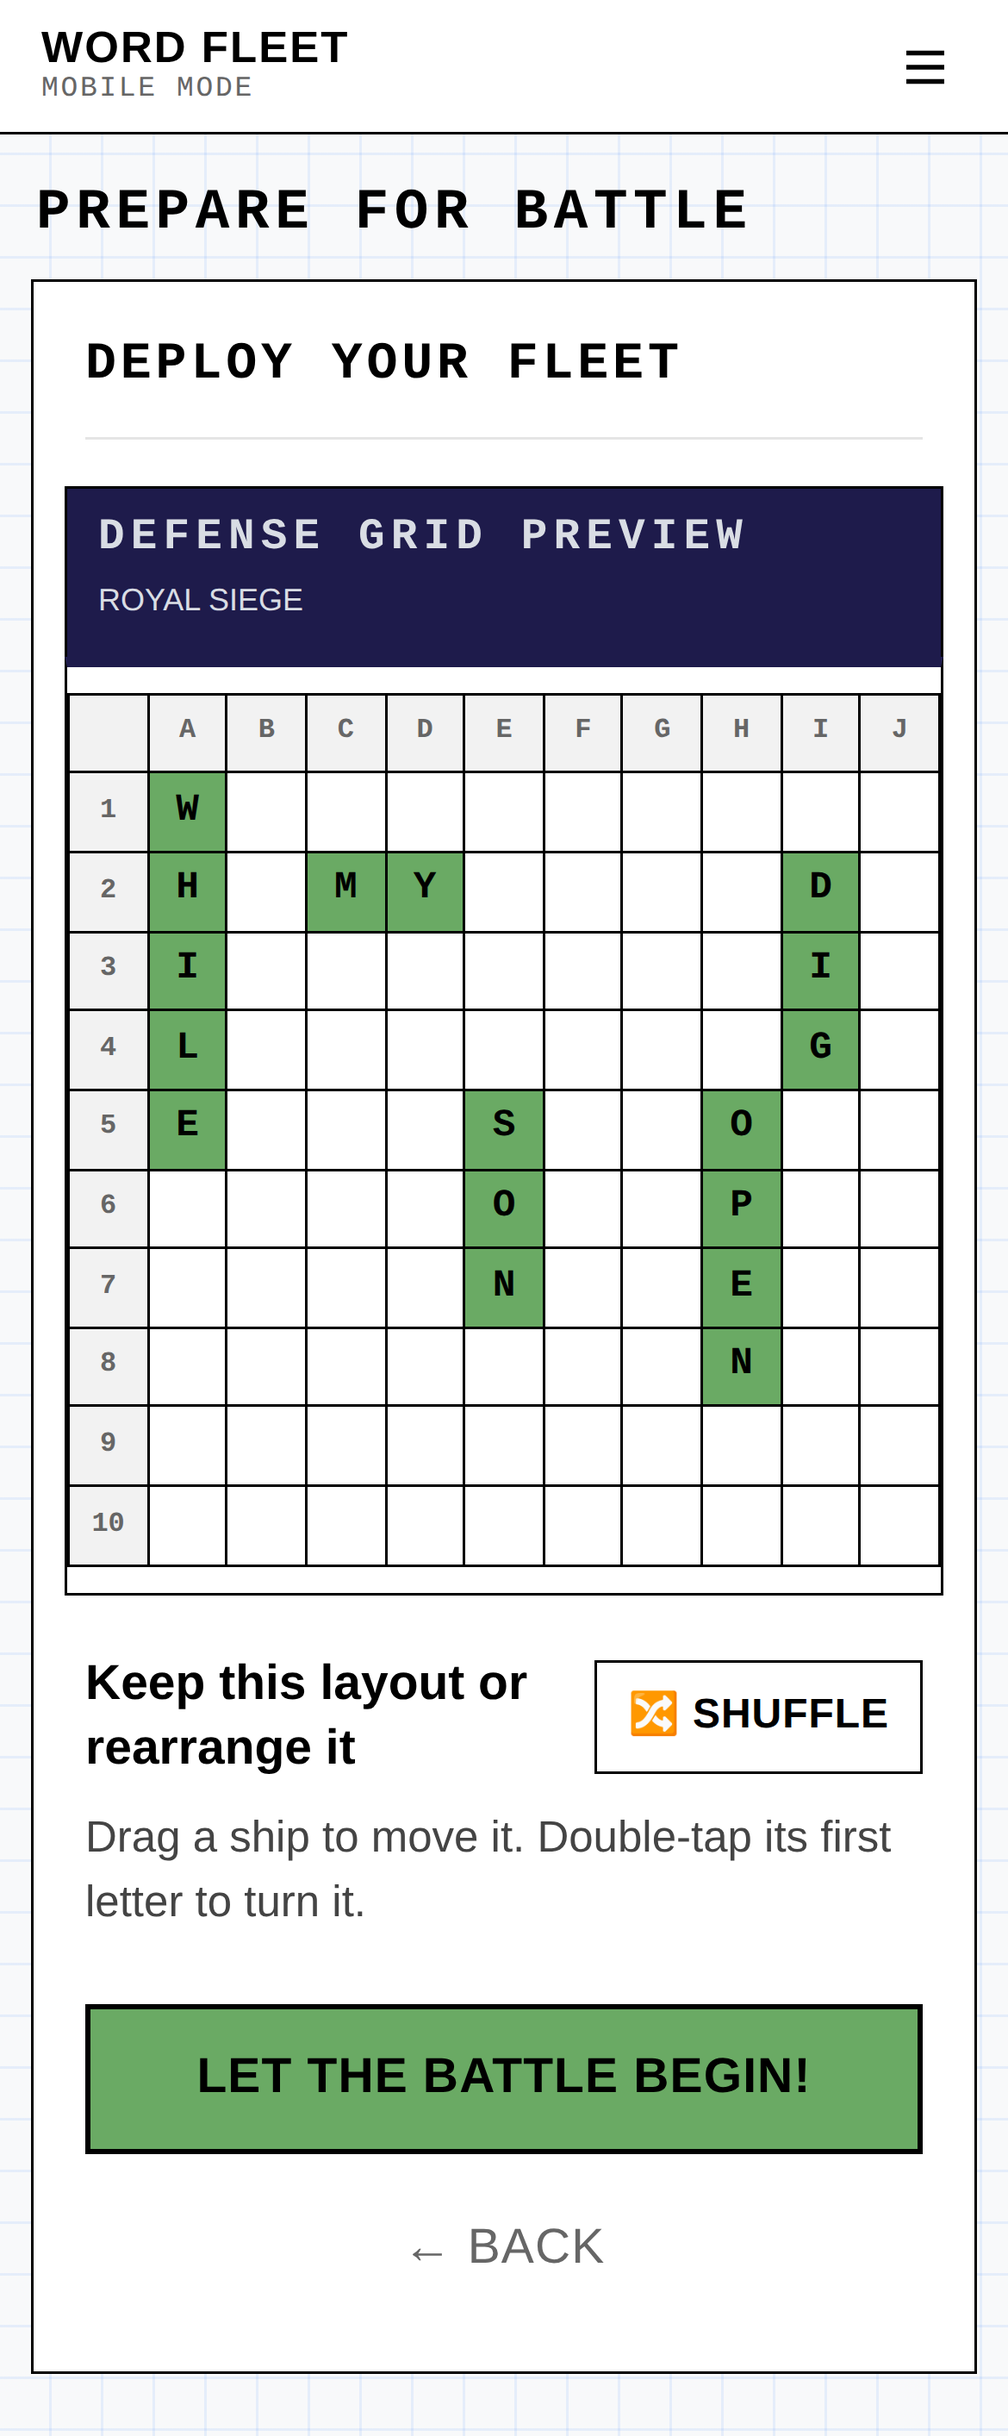
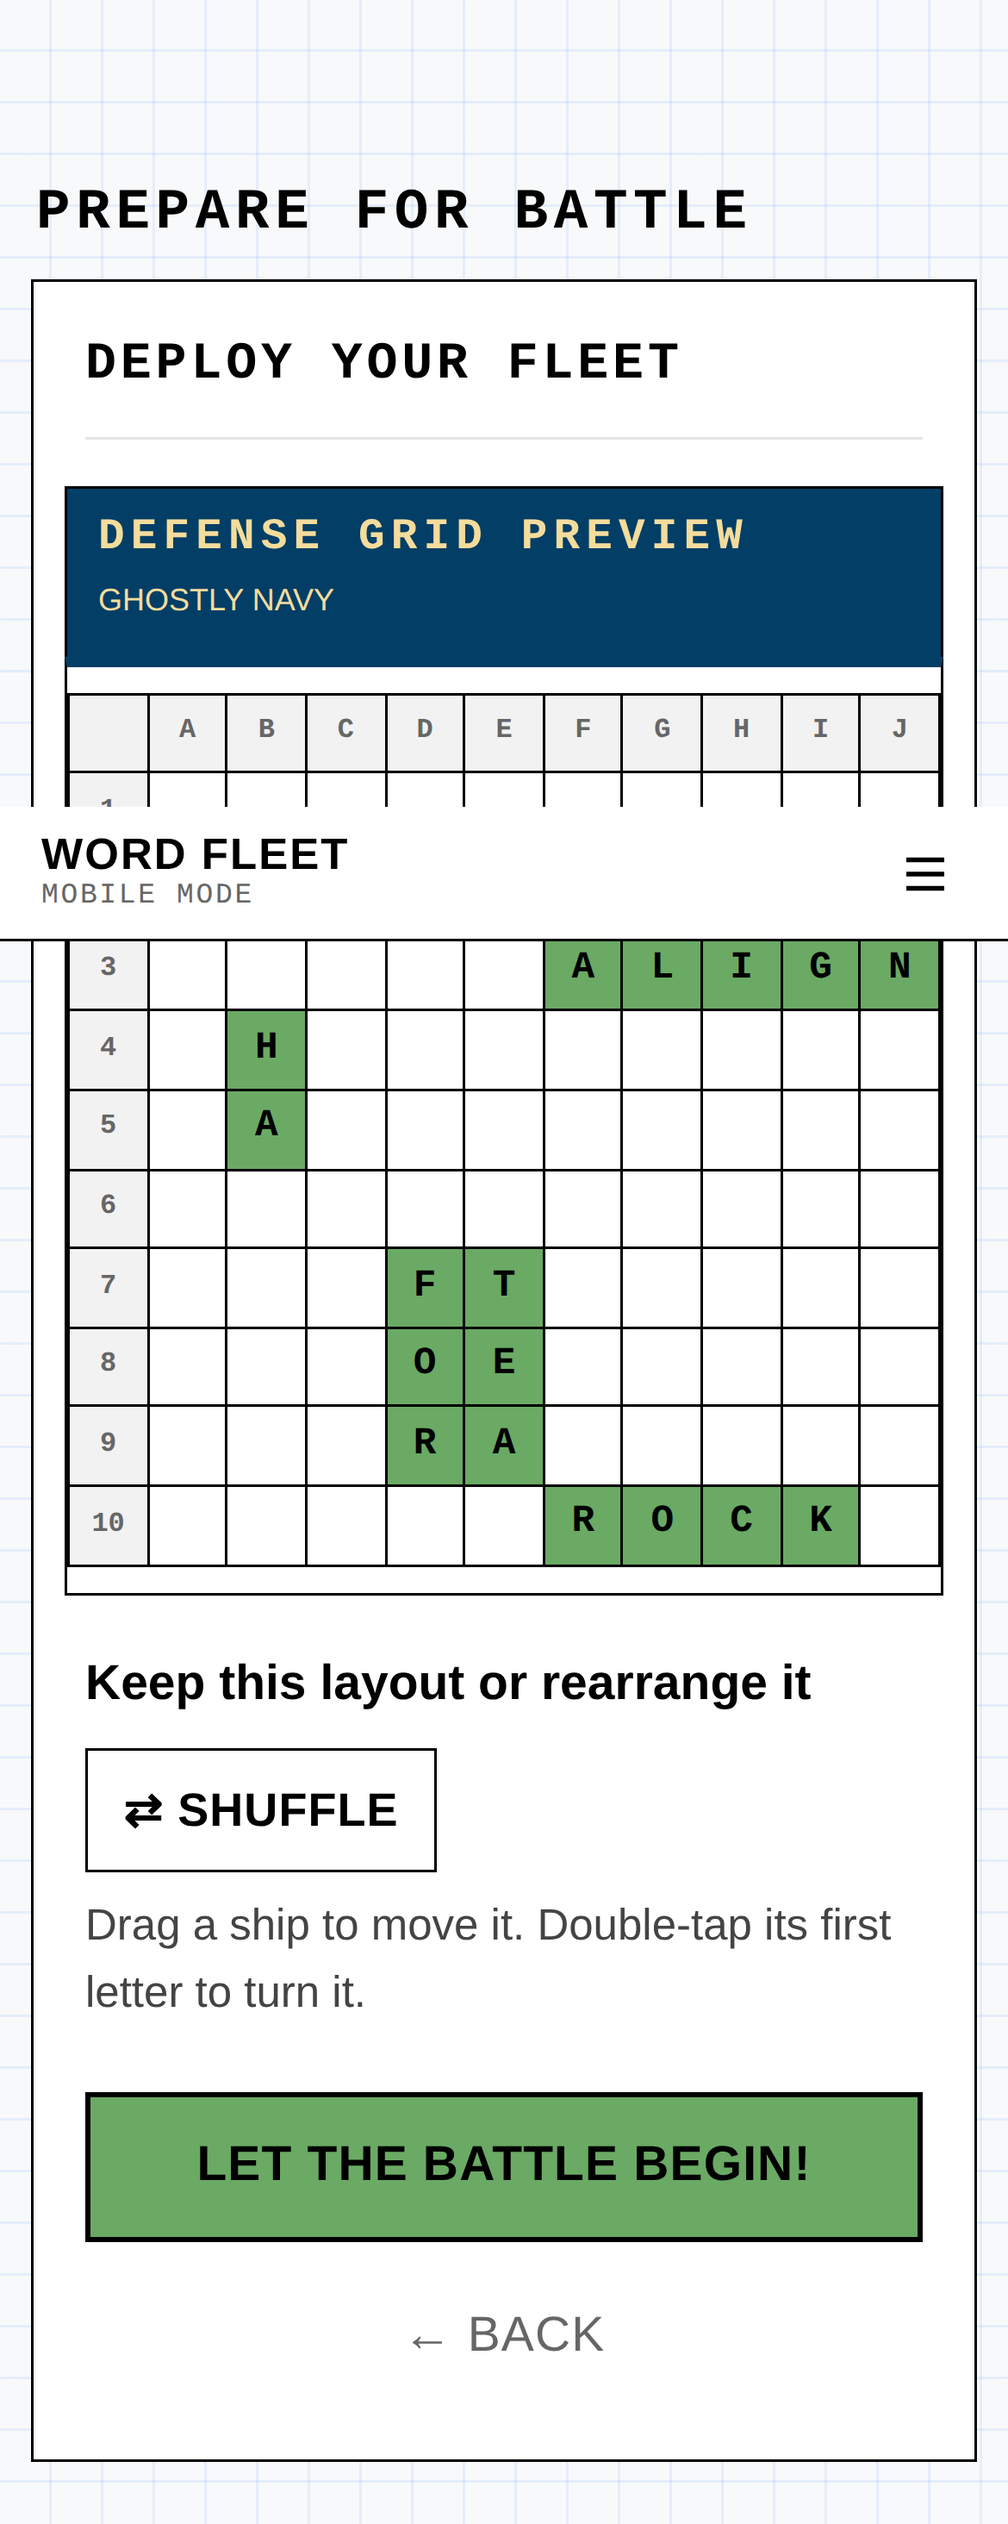
Prepare screens polish: consistent section headers, Set Up Your Fleet, Word Fleet Home link, short Next labels, fleet flag under the header, captain pictures, one-row language, readable ship sizes, matching header buttons
Claude-Session: https://claude.ai/code/session_013sUGAAEC45a1EJCrQWVj9Q

diff --git a/mobile/index.html b/mobile/index.html
@@ -18,7 +18,7 @@
   <link rel="preconnect" href="https://fonts.gstatic.com" crossorigin>
   <link href="https://fonts.googleapis.com/css2?family=Courier+Prime:wght@400;700&family=Inter:wght@400;500;600;700&display=swap" rel="stylesheet">
   <!-- Bump ?v= on every release (and CACHE in sw.js) so a new page never runs old code. -->
-  <link rel="stylesheet" href="app.css?v=72">
+  <link rel="stylesheet" href="app.css?v=76">
 </head>
 <body>
 
@@ -53,11 +53,15 @@
 
   <!-- ============ 001-MOBILE-PREPARE (screen name: "001-MOBILE-PREPARE") ============ -->
   <section class="screen setup-big" id="scrSetup" data-screen="001-MOBILE-PREPARE">
+    <p class="page-welcome">Welcome, Captain!</p>
     <h1 class="page-head">Prepare for Battle</h1>
     <div class="card">
-      <div class="card-title">Welcome Captain!</div>
-      <label class="label label--say" for="selLang">Choose your language</label>
-      <select class="select" id="selLang"></select>
+      <div class="card-title">Set Up Your Fleet</div>
+      <!-- 11: language on one compact row -->
+      <div class="lang-row">
+        <label class="label label--say" for="selLang">Language</label>
+        <select class="select" id="selLang"></select>
+      </div>
 
       <label class="label label--say" for="inFleet">Roll the die or type your own fleet name</label>
       <div class="input-row">
@@ -69,25 +73,26 @@
       <div class="swatches" id="colorSchemes" role="radiogroup" aria-labelledby="lblColors"></div>
       <p class="hint hint--label swatch-name" id="colorSchemeName"></p>
 
-      <button class="btn btn--wide btn--next btn--progress" style="--progress: 25%" id="btnToOpponent" type="button" aria-label="Next: Choose Your Opponent (step 1 of 4 done)">Next: Choose Your Opponent</button>
-      <a class="btn btn--ghost btn--wide" id="lnkHome" href="../">&larr; Back</a>
+      <button class="btn btn--wide btn--next btn--progress" style="--progress: 25%" id="btnToOpponent" type="button" aria-label="Next: Choose Your Opponent (step 1 of 4 done)">Next: Opponent</button>
+      <a class="btn btn--ghost btn--wide" id="lnkHome" href="../">&larr; Word Fleet Home</a>
     </div>
   </section>
 
   <!-- ============ 002-MOBILE-OPPONENT (screen name: "002-MOBILE-OPPONENT") ============ -->
   <section class="screen setup-big" id="scrOpponent" data-screen="002-MOBILE-OPPONENT">
     <h1 class="page-head">Prepare for Battle</h1>
+    <div class="fleet-tag" data-fleet-tag></div>
     <div class="card">
       <div class="card-title">Choose Your Opponent</div>
       <span class="label label--say">Pick the AI Captain you'll face</span>
       <div class="seg" id="segLevel">
-        <button type="button" data-v="ensign" class="is-on"><span class="cpt">Captain</span>Rubber Duck</button>
-        <button type="button" data-v="commander"><span class="cpt">Captain</span>Steady</button>
-        <button type="button" data-v="admiral"><span class="cpt">Captain</span>Lexicon</button>
+        <button type="button" data-v="ensign" class="is-on"><span class="cpt-pic" aria-hidden="true">&#x1F986;</span><span class="cpt">Captain</span>Rubber Duck</button>
+        <button type="button" data-v="commander"><span class="cpt-pic" aria-hidden="true">&#x2693;</span><span class="cpt">Captain</span>Steady</button>
+        <button type="button" data-v="admiral"><span class="cpt-pic" aria-hidden="true">&#x1F4D6;</span><span class="cpt">Captain</span>Lexicon</button>
       </div>
       <p class="hint" id="levelHint"></p>
 
-      <button class="btn btn--wide btn--next btn--progress" style="--progress: 50%" id="btnToWords" type="button" aria-label="Next: Build Your Word-Ships (step 2 of 4 done)">Next: Build Your Word-Ships</button>
+      <button class="btn btn--wide btn--next btn--progress" style="--progress: 50%" id="btnToWords" type="button" aria-label="Next: Build Your Word-Ships (step 2 of 4 done)">Next: Word-Ships</button>
       <button class="btn btn--ghost btn--wide" id="btnBackToSetup" type="button">&larr; Back</button>
     </div>
   </section>
@@ -95,21 +100,21 @@
   <!-- ============ 003-MOBILE-WORD-SHIPS (screen name: "003-MOBILE-WORD-SHIPS") ============ -->
   <section class="screen setup-big" id="scrWords" data-screen="003-MOBILE-WORD-SHIPS">
     <h1 class="page-head">Prepare for Battle</h1>
+    <div class="fleet-tag" data-fleet-tag></div>
     <div class="card">
       <div class="card-title">Build Your Word-Ships</div>
-      <span class="label label--say">Offensive words</span>
-      <label class="switch-row switch-row--big"><span>Possibly Offensive Words OK</span><input type="checkbox" class="switch" id="chkOffensive" role="switch"></label>
+      <label class="switch-row switch-row--big"><span>Allow possibly offensive words</span><input type="checkbox" class="switch" id="chkOffensive" role="switch"></label>
       <p class="hint hint--tight">Applies to both fleets.</p>
 
       <div class="section-head">
-        <span class="label label--say">Your five word-ships</span>
-        <button class="btn btn--sm" id="btnRefreshAll" type="button" aria-label="Refresh all five words">&#x21bb; Refresh All</button>
+        <span class="label label--say">Check your five word-ships</span>
+        <button class="btn btn--sm btn--head" id="btnRefreshAll" type="button" aria-label="Refresh all five words">&#x21bb; Refresh All</button>
       </div>
       <p class="hint hint--label">Tap any word to type your own.</p>
       <div id="wordList"></div>
       <p class="note" id="setupNote"></p>
 
-      <button class="btn btn--wide btn--next btn--progress" style="--progress: 75%" id="btnToDeploy" type="button" aria-label="Next: Deploy Your Fleet (step 3 of 4 done)">Next: Deploy Your Fleet</button>
+      <button class="btn btn--wide btn--next btn--progress" style="--progress: 75%" id="btnToDeploy" type="button" aria-label="Next: Deploy Your Fleet (step 3 of 4 done)">Next: Deploy</button>
       <button class="btn btn--ghost btn--wide" id="btnBackToOpponent" type="button">&larr; Back</button>
     </div>
   </section>
@@ -127,7 +132,7 @@
 
       <div class="section-head">
         <span class="label label--say">Keep this layout or rearrange it</span>
-        <button class="btn btn--sm" id="btnShuffle" type="button" aria-label="Shuffle your fleet into a new random layout">&#x1F500; Shuffle</button>
+        <button class="btn btn--sm btn--head" id="btnShuffle" type="button" aria-label="Shuffle your fleet into a new random layout">&#x21C4; Shuffle</button>
       </div>
       <p class="hint hint--label">Drag a ship to move it. Double-tap its first letter to turn it.</p>
 
@@ -222,7 +227,7 @@
 
 <div class="toast" id="toast" hidden></div>
 
-<script src="audio.js?v=72"></script>
-<script src="app.js?v=72"></script>
+<script src="audio.js?v=76"></script>
+<script src="app.js?v=76"></script>
 </body>
 </html>

diff --git a/mobile/app.js b/mobile/app.js
@@ -409,10 +409,11 @@
     if (document.activeElement !== $('inFleet')) $('inFleet').value = S.me.name;
     fitFleetName();
     $('selLang').innerHTML = languages.map(function (l) {
-      return '<option value="' + esc(l.code) + '"' + (lang && l.code === lang.code ? ' selected' : '') + '>' + esc(l.name) + '</option>';
+      return '<option value="' + esc(l.code) + '"' + (lang && l.code === lang.code ? ' selected' : '') + '>' + esc(l.short || l.name) + '</option>';   // short: the language's own name, fits small phones
     }).join('');
     $('selLang').disabled = languages.length < 2;
     renderSchemes();
+    renderFleetTags();
     $('chkOffensive').checked = offensiveOk();
     setSeg('segLevel', S.level);
     $('levelHint').innerHTML = esc(LEVELS[S.level].hint) + ' <strong>e.g. ' + esc(levelExamples(S.level)) + '</strong>';
@@ -452,6 +453,14 @@
     return COLOR_SCHEMES.filter(function (cs) { return cs.id === id; })[0] || COLOR_SCHEMES[0];
   }
 
+  // Under the header on 002-004: your flag and fleet name, so the chosen colors show from here on.
+  function renderFleetTags() {
+    var cs = schemeOf(S.colors), name = S.me.name || '';
+    Array.prototype.forEach.call(document.querySelectorAll('[data-fleet-tag]'), function (el) {
+      el.innerHTML = '<span class="fleet-tag-flag">' + flagSvg(cs, fleetInitials(name) || 'WF') + '</span><span class="fleet-tag-name">' + esc(name) + '</span>';
+    });
+  }
+
   function renderSchemes() {
     // A saved scheme that no longer exists gets a fresh random one.
     if (!COLOR_SCHEMES.some(function (cs) { return cs.id === S.colors; })) { S.colors = pick(COLOR_SCHEMES).id; save(); }
@@ -478,7 +487,7 @@
   function wordMessage(i) {
     var w = S.me.words[i] || '', p = wordProblem(w, SPECS[i].len);
     if (p) return SPECS[i].cls + ' ' + p + '.';
-    if (dictSet[w] && !allowed(w)) return w + ' may be offensive. Turn on "Possibly Offensive Words OK" to allow it.';
+    if (dictSet[w] && !allowed(w)) return w + ' may be offensive. Turn on "Allow possibly offensive words" to use it.';
     if (!inDictionary(w)) return w + " isn't in the " + lang.name + ' dictionary. Real words only, captain \u2014 no proper nouns or abbreviations.';
     return null;
   }
@@ -525,6 +534,7 @@
     // The fleet is always on the grid (a game saved with ships in port gets a fresh layout).
     if (S.me.ships.some(function (s) { return s.r == null; })) { S.me.ships = scatter(S.me.words); save(); }
     $('deployFleetName').textContent = S.me.name || 'Your fleet';
+    renderFleetTags();
     // The preview flies the fleet's colors: color 1 behind, color 2 for the text.
     var cs = schemeOf(S.colors);
     $('deployBanner').style.background = cs.colors[0];

diff --git a/mobile/app.css b/mobile/app.css
@@ -492,3 +492,29 @@ button.mf { font: inherit; color: var(--ink); width: 100%; padding: 3px 0 2px; c
 /* Every button reads in capitals */
 .btn, .seg button { text-transform: uppercase; }
 .setup-big #segLevel button { font-size: 16px; padding: 6px 2px; }   /* capitals are wider: keep LEXICON inside its box on small phones */
+
+/* --- Prepare screens polish --- */
+/* 4: greeting above the header on 001 */
+.page-welcome { font-size: 19px; font-weight: 700; margin: 4px 2px 0; }
+/* 9: your flag and fleet name under the header on 002-004 */
+.fleet-tag { display: flex; align-items: center; gap: 10px; margin: -4px 2px 12px; }
+.fleet-tag-flag { width: 44px; flex-shrink: 0; }
+.fleet-tag-flag svg { display: block; width: 100%; height: auto; }
+.fleet-tag-name { font-family: var(--mono); font-size: 17px; font-weight: 700; letter-spacing: 0.06em; }
+/* 11: language on one row */
+.setup-big .lang-row { display: flex; align-items: center; gap: 12px; }
+.setup-big .lang-row .label--say { margin: 0; flex-shrink: 0; }
+.setup-big .lang-row .select { flex: 1; min-width: 0; }
+/* 3: header-row buttons (Refresh All, Shuffle) match the other buttons */
+.setup-big .section-head .btn--head { font-size: 18px; min-height: 48px; padding: 6px 14px; }
+/* 6: ship sizes readable */
+.setup-big .word-class { font-size: 16px; }
+.setup-big .word-class b { font-size: 17px; }
+/* 10: captain pictures */
+#segLevel .cpt-pic { display: block; font-size: 26px; line-height: 1.1; margin-bottom: 2px; }
+/* small-phone fixes */
+.setup-big .lang-row .select { font-family: var(--sans); font-size: 18px; padding: 0 28px 0 10px; text-overflow: ellipsis; }
+.setup-big .btn--ghost { padding-left: 6px; padding-right: 6px; white-space: nowrap; }
+.setup-big .section-head { flex-wrap: wrap; }
+.setup-big .section-head .label--say { flex: 1 1 190px; }
+.setup-big .lang-row + .label--say { margin-top: 22px; }

diff --git a/mobile/sw.js b/mobile/sw.js
@@ -1,11 +1,11 @@
 /* Word Fleet service worker: the whole game works offline once loaded. */
-var CACHE = 'wordfleet-v72';
+var CACHE = 'wordfleet-v76';
 var SHELL = [
   './',
   'index.html',
-  'app.css?v=72',
-  'app.js?v=72',
-  'audio.js?v=72',
+  'app.css?v=76',
+  'app.js?v=76',
+  'audio.js?v=76',
   'manifest.webmanifest',
   'icons/icon-180.png',
   'icons/icon-192.png',

diff --git a/mobile/screens/README.md b/mobile/screens/README.md
@@ -8,7 +8,7 @@ referred to by name when asking for changes. Each has a reference snapshot in th
 | Name | In the code | Snapshot | What it is |
 | --- | --- | --- | --- |
 | **MOBILE-HOME** *(parked)* | `<section id="scrMobileHome" data-screen="MOBILE-HOME">`, `SCREENS.home` | `mobile-home.png` | **Parked, not shown to players.** Kept for later use. Was the first screen: WORD FLEET title, Mobile Mode tag, blurb, New Battle and Rules of Engagement buttons. The app now opens on 001-MOBILE-PREPARE. |
-| **001-MOBILE-PREPARE** | `<section id="scrSetup" data-screen="001-MOBILE-PREPARE">`, `SCREENS.setup` | `001-mobile-prepare.png` | **First screen players see.** Card title "Welcome Captain!". "Choose your language", then "Roll the die or type your own fleet name" (with dice). "Choose your color scheme": five two-color swatches (Plum & Peach, Crimson & Gold, Charcoal & Sky, Midnight & Silver, Ocean & Sand; no greens, which belong to the game's own colors), each a dark color with a light text color at least 7:1 contrast, each drawn as a waving flag on a short pole with a ball on top flying the fleet's initials (first letter of each word) in the text color, saved as `S.colors`. A random scheme is chosen on load until the captain picks one. Not applied anywhere yet. Changing language rolls a new fleet name in that language (`dictionaries/fleet-names.json`). Button "Next: Choose Your Opponent", filled 25% green as a progress bar. "← Back" goes to the Word Fleet home page (`../`, the site's `index.html`). Screens 001-004 share one look: a "PREPARE FOR BATTLE" page header above the card (`.page-head`), the step's card title, plain-language section headers (`.label--say`), and large, easy-to-read text (`.setup-big`). |
-| **002-MOBILE-OPPONENT** | `<section id="scrOpponent" data-screen="002-MOBILE-OPPONENT">`, `SCREENS.opponent` | `002-mobile-opponent.png` | Card title "Choose Your Opponent", section "Pick the AI Captain you'll face": the three AI Captains (Captain Rubber Duck, Captain Steady, Captain Lexicon), each with a short character sketch and five example words, one per word-ship (5, 4, 3, 3, 2 letters), drawn from that captain's tier of the chosen dictionary, never offensive. Button "Next: Build Your Word-Ships", filled 50% green. |
-| **003-MOBILE-WORD-SHIPS** | `<section id="scrWords" data-screen="003-MOBILE-WORD-SHIPS">`, `SCREENS.words` | `003-mobile-word-ships.png` | Card title "Build Your Word-Ships". Section "Offensive words": a "Possibly Offensive Words OK" on/off switch, "Applies to both fleets." Section "Your five word-ships" (Refresh All at the right end of its header): "Tap any word to type your own." The five word-ships arrive drawn for your opponent and are editable, each with a ↻ redraw. A typed word is checked against the dictionary when its box loses focus, and every word is checked again on "Next: Deploy Your Fleet" (filled 75% green). |
-| **004-MOBILE-DEPLOY** | `<section id="scrDeploy" data-screen="004-MOBILE-DEPLOY">`, `SCREENS.deploy` | `004-mobile-deploy.png` | Step 4 of 4 of Prepare for Battle, same look as 001-003. Card title "Deploy Your Fleet", then the Defense Grid dressed like the in-game one ("DEFENSE GRID PREVIEW" banner with your fleet name under it, in your fleet's colors from 001: color 1 behind, color 2 for the text, color 1 along the top edge). Opens with the five word-ships already deployed at random, in green; they never leave the grid. Section "Keep this layout or rearrange it" with a Shuffle button (new random layout); drag a ship to move it, double-tap its first letter to turn it. "LET THE BATTLE BEGIN!" (progress bar full), Back. |
+| **001-MOBILE-PREPARE** | `<section id="scrSetup" data-screen="001-MOBILE-PREPARE">`, `SCREENS.setup` | `001-mobile-prepare.png` | **First screen players see.** "Welcome, Captain!" above the header. Card title "Set Up Your Fleet": Language (one row; the menu shows each language in its own name), "Roll the die or type your own fleet name" (with dice; changing language rolls a new name in that language, `dictionaries/fleet-names.json`), "Choose your color scheme" (five flags flying the fleet's initials: Plum & Peach, Crimson & Gold, Charcoal & Sky, Midnight & Silver, Ocean & Sand; dark color 1 with light color 2 text at 7:1+ contrast, no greens; random on load until picked; saved as `S.colors`). "NEXT: OPPONENT" (25%), "← WORD FLEET HOME" (leaves for the site home page). |
+| **002-MOBILE-OPPONENT** | `<section id="scrOpponent" data-screen="002-MOBILE-OPPONENT">`, `SCREENS.opponent` | `002-mobile-opponent.png` | Your flag and fleet name under the header. Card title "Choose Your Opponent", section "Pick the AI Captain you'll face": 🦆 Rubber Duck, ⚓ Steady, 📖 Lexicon, each with a character sketch and five example words (5, 4, 3, 3, 2 letters) from that captain's tier of the chosen dictionary, never offensive. "NEXT: WORD-SHIPS" (50%), Back. |
+| **003-MOBILE-WORD-SHIPS** | `<section id="scrWords" data-screen="003-MOBILE-WORD-SHIPS">`, `SCREENS.words` | `003-mobile-word-ships.png` | Your flag and fleet name under the header. Card title "Build Your Word-Ships". "Allow possibly offensive words" switch ("Applies to both fleets."). Section "Check your five word-ships" with ↻ REFRESH ALL; "Tap any word to type your own." Each word has a ↻ redraw; a typed word is checked against the dictionary when its box loses focus, and all are checked on "NEXT: DEPLOY" (75%). Back. |
+| **004-MOBILE-DEPLOY** | `<section id="scrDeploy" data-screen="004-MOBILE-DEPLOY">`, `SCREENS.deploy` | `004-mobile-deploy.png` | Step 4 of 4 of Prepare for Battle, same look as 001-003. Card title "Deploy Your Fleet", then the Defense Grid dressed like the in-game one ("DEFENSE GRID PREVIEW" banner with your fleet name under it, in your fleet's colors from 001: color 1 behind, color 2 for the text, color 1 along the top edge). Opens with the five word-ships already deployed at random, in green; they never leave the grid. Section "Keep this layout or rearrange it" with ⇄ SHUFFLE (new random layout); drag a ship to move it, double-tap its first letter to turn it. "LET THE BATTLE BEGIN!" (progress bar full), Back. |

diff --git a/dictionaries/README.md b/dictionaries/README.md
@@ -4,7 +4,7 @@ All of Word Fleet's word data lives here.
 
 | File | What it is |
 | --- | --- |
-| `languages.json` | Languages offered in the app's **Choose your language** menu. Add a line to add a language. |
+| `languages.json` | Languages offered in the app's **Language** menu. Add a line to add a language. `short` (optional) is the name shown in the menu; `name` is used in messages. |
 | `en-US.json`, `en-GB.json` | American and British English word lists (2–5 letter words, ranked by how common they are). Generated; don't edit by hand. |
 | `es.json`, `de.json` | Spanish and German word lists, same shape. Generated; don't edit by hand. |
 | `build-en.js` | Builds `en-US.json` / `en-GB.json` from SCOWL. |
